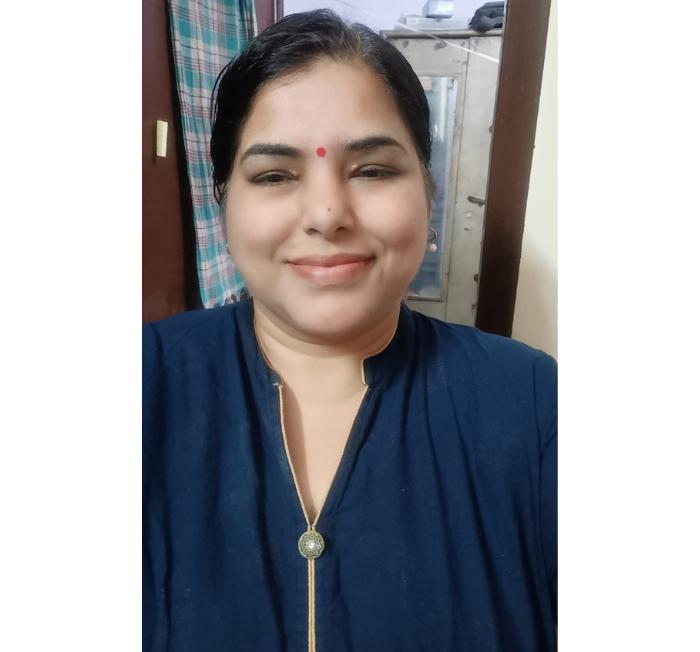
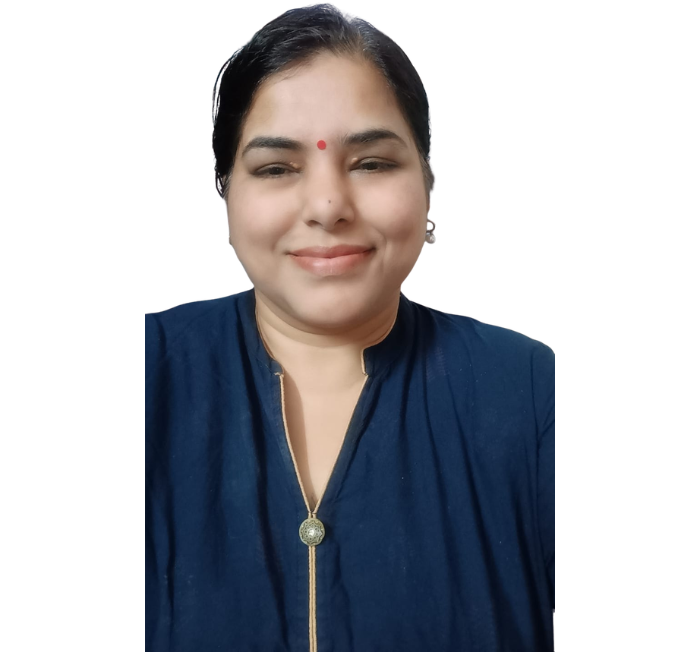
updated img and css

Changed region(s): [[0.18, 0.0, 0.81, 1.0], [0.36, 0.7975, 0.39, 0.8589], [0.24, 0.9202, 0.27, 0.9509]]

diff --git a/assets/css/style.css b/assets/css/style.css
@@ -1667,7 +1667,6 @@ p.first-letter::first-letter {
   position: relative;
   width: 100%;
   padding: 10px;
-  background-color: #c27b7f;
   border-radius: 5px;
 }
 .authorv2__image img {

diff --git a/assets/css/colors/oldRose.css b/assets/css/colors/oldRose.css
@@ -16,7 +16,6 @@
 .achieve__content__item:hover,
 .achieve3__item::before,
 .author__image:after,
-.authorv2__image,
 .booksv1__item--icon,
 .faqs-accordion
   .accordion-item
